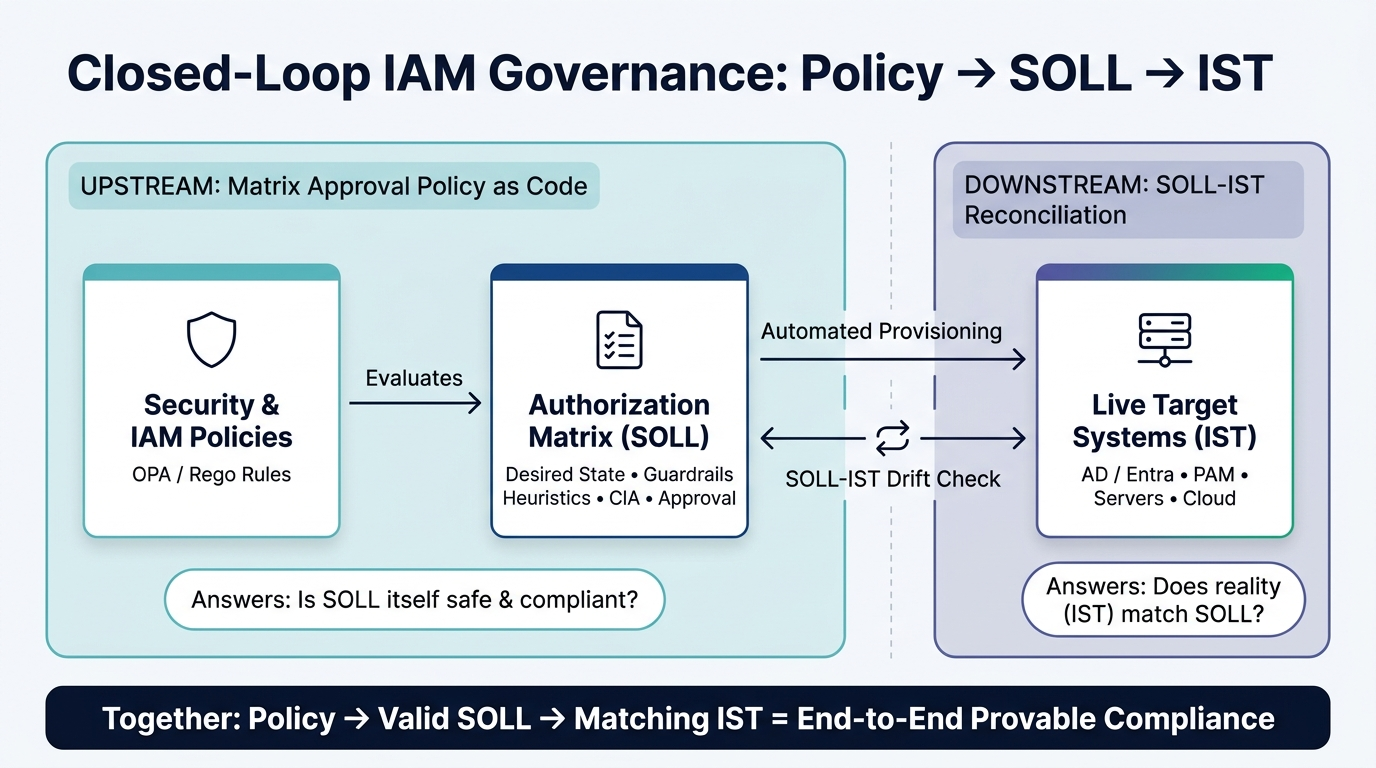
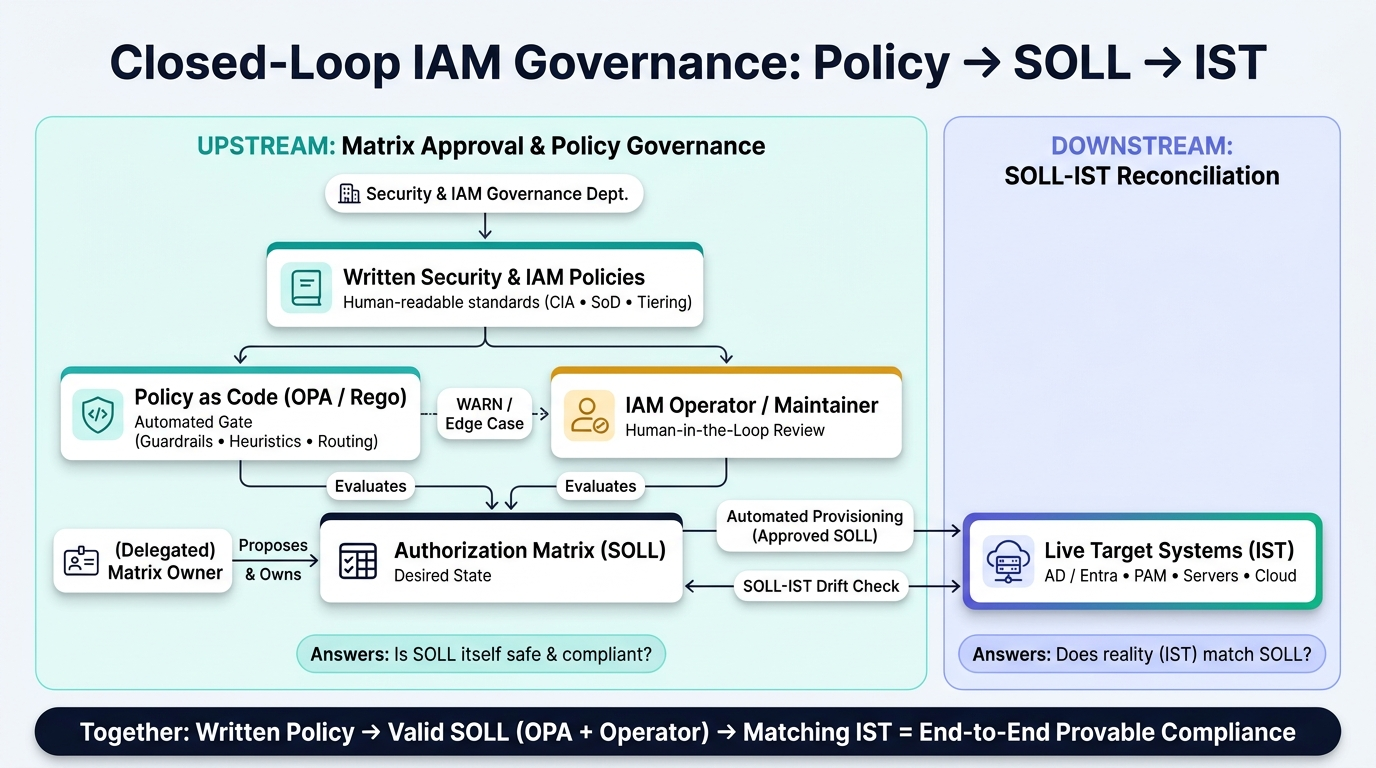
Add governance roles, shared written policy source, and human-in-the-loop operator escalation to closed-loop diagram

diff --git a/README.md b/README.md
@@ -35,17 +35,30 @@ A frequent point of confusion in Enterprise IAM is equating **Authorization Matr
 
 ```mermaid
 flowchart LR
-  subgraph UPSTREAM["UPSTREAM: Matrix Approval Policy as Code (Is SOLL safe & compliant?)"]
-    P["Security & IAM Policies<br/>(OPA / Rego Rules)"] -->|"Evaluates"| SOLL["Authorization Matrix (SOLL)<br/>Desired State • Guardrails • Heuristics • CIA • Approval"]
+  subgraph UPSTREAM["UPSTREAM: Matrix Approval & Policy Governance (Is SOLL safe & compliant?)"]
+    DEPT["Security & IAM Governance Dept."] -->|"writes & maintains"| POLICY["Written Security & IAM Policies<br/>(Human-readable standards: CIA • SoD • Tiering)"]
+    POLICY -->|"codified as"| OPA["Policy as Code (OPA / Rego)<br/>Automated Gate"]
+    POLICY -->|"guides"| OP["IAM Operator / Maintainer<br/>Human-in-the-Loop Review"]
+    OPA -.->|"WARN / Edge Case /<br/>Cannot Auto-Decide"| OP
+    OWNER["(Delegated) Matrix Owner"] -->|"proposes & owns"| SOLL["Authorization Matrix (SOLL)<br/>Desired State"]
+    OPA -->|"Evaluates"| SOLL
+    OP -->|"Evaluates"| SOLL
   end
 
   subgraph DOWNSTREAM["DOWNSTREAM: SOLL-IST Reconciliation (Does IST match SOLL?)"]
     IST["Live Target Systems (IST)<br/>AD / Entra • PAM • Servers • Cloud"]
   end
 
-  SOLL -->|"Automated Provisioning"| IST
+  SOLL -->|"Automated Provisioning<br/>(Approved SOLL)"| IST
   SOLL <-->|"SOLL-IST Drift Check"| IST
 ```
+
+### Roles & Ownership Across the Loop
+
+- **Security & IAM Governance Dept.** authors and maintains the **Written Security & IAM Policies** (human-readable corporate standards for CIA ratings, SoD, Tier-0 isolation, and PAM/JIT).
+- **Policy as Code (OPA / Rego)** and the **IAM Operator / Maintainer** both enforce that *same* written policy: OPA automates routine and hard-guardrail checks, and escalates `WARN` heuristics, exceptions, or edge cases it cannot auto-decide to the human operator (whose recurring decisions can later be codified back into Rego).
+- **(Delegated) Matrix Owner** (System / Application Owner) proposes, owns, and recertifies the **Authorization Matrix (`SOLL`)**.
+- **SOLL-IST Reconciliation** runs downstream after provisioning to verify that live target systems (`IST`) match the approved `SOLL`.
 
 ### Why SOLL-IST Alone Is Not Enough
 
@@ -403,4 +416,4 @@ python3 scripts/iam_matrix_check.py \
 
 ---
 
-*Author: **Arjan Filius** | Date: **27 November 2026***
+*Author: **Arjan Filius** | Date: **28 November 2026***
